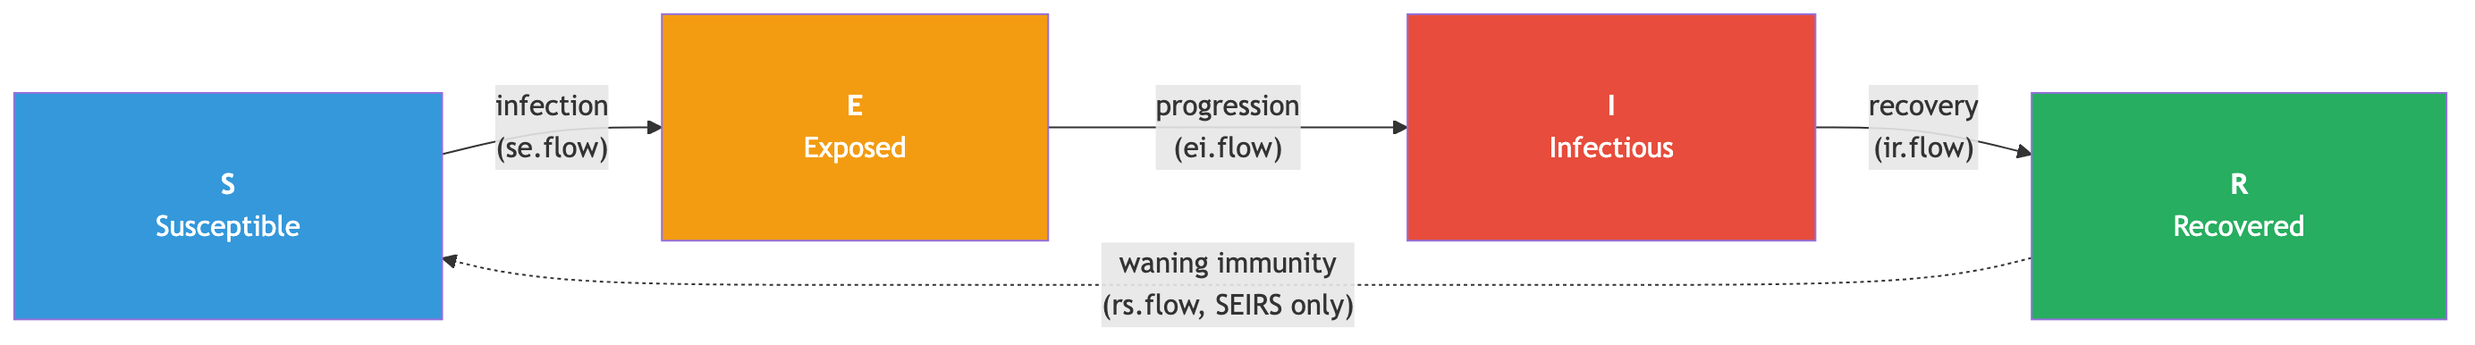
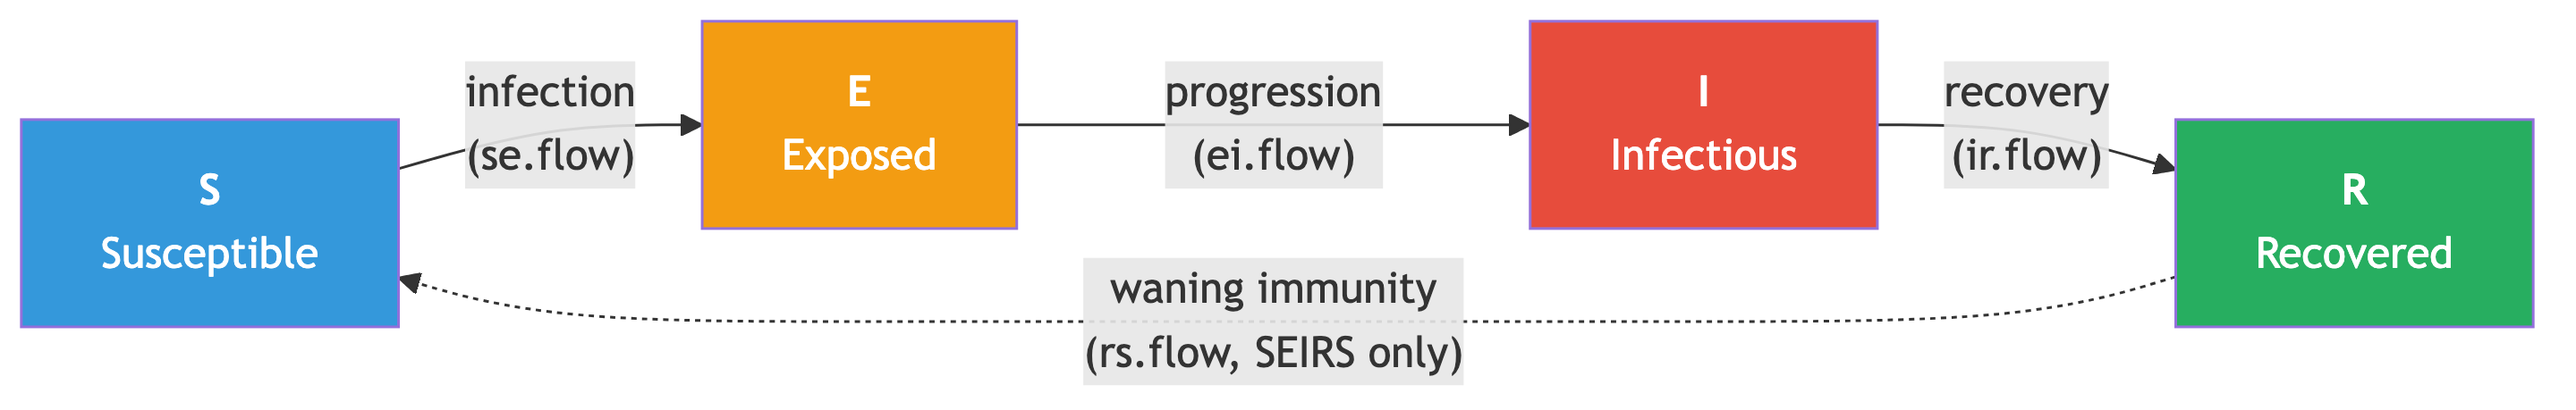
Update thumbnails

diff --git a/styles/_theme.scss b/styles/_theme.scss
@@ -42,3 +42,10 @@ a.sidebar-item-text.sidebar-link.text-start,
 pre, code, .sourceCode {
   font-family: 'SFMono-Regular', Menlo, Consolas, 'Liberation Mono', monospace;
 }
+
+// Gallery card thumbnails — show full image without cropping
+.quarto-grid-item .thumbnail-image.card-img {
+  object-fit: contain !important;
+  background-color: #fff;
+}
+
